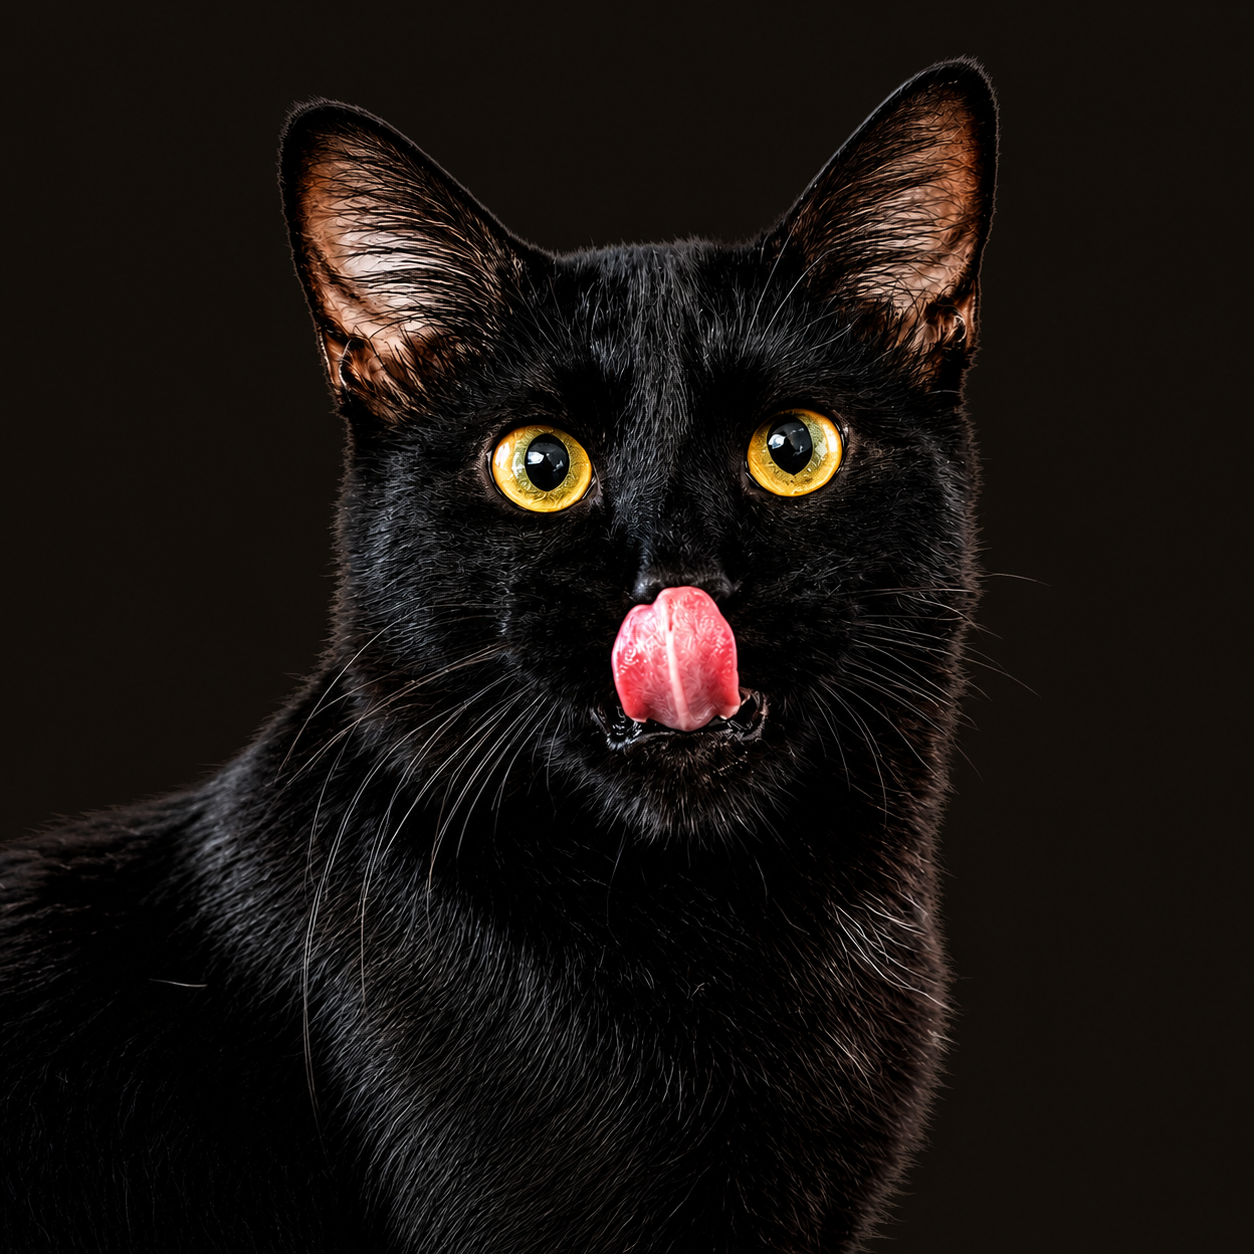
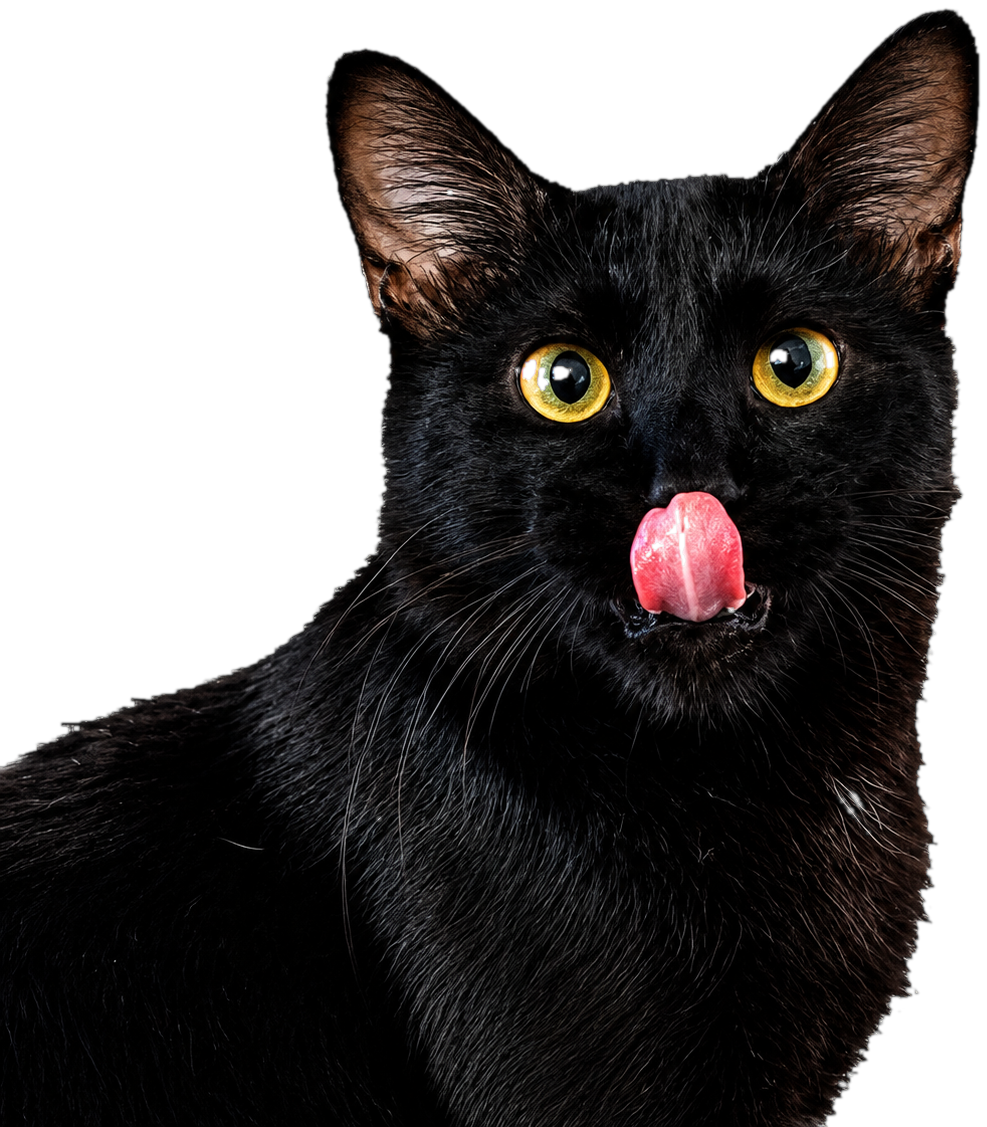
update bubblespeech

diff --git a/imperial-kitchen.html b/imperial-kitchen.html
@@ -721,7 +721,7 @@ footer { border-top: 1px solid rgba(244,237,224,0.12); padding: 2.5rem 2rem; tex
   <div class="speech-wrap">
     <img class="speech-cat" src="heizhu-speech.png" alt="黑珠仔">
     <div class="speech-bubble">
-      <div class="speech-bubble-title" data-zh="😄 悄悄说一句" data-tw="😄 悄悄說一句" data-en="😄 A Little Secret" data-ja="😄 ちょっとした秘密">😄 悄悄说一句</div>
+      <div class="speech-bubble-title" data-zh="🐾 黑猪仔说" data-tw="🐾 黑豬仔說" data-en="🐾 Hei Zhu Zai says" data-ja="🐾 ヘイジューザイが言う">🐾 黑猪仔说</div>
       <div class="speech-bubble-text" data-zh="这款猫粮真的可以给人下饭吃——前提是你不嫌它不够重口味。我们没加盐没加味精，是给猫吃的，不是给你配啤酒的。" data-tw="這款貓糧真的可以給人下飯吃——前提是你不嫌它不夠重口味。我們沒加鹽沒加味精，是給貓吃的，不是給你配啤酒的。" data-en="Honestly, this cat food is good enough for a human meal too — as long as you don't mind it being under-seasoned. No salt, no MSG. Made for cats, not for pairing with beer." data-ja="正直、このごはんは人が食べてもおいしいです——味が薄めでも気にしなければ、ですが。塩もうま味調味料も入れていません。猫のためのごはんで、おつまみ用ではありません。">这款猫粮真的可以给人下饭吃——前提是你不嫌它不够重口味。我们没加盐没加味精，是给猫吃的，不是给你配啤酒的。</div>
     </div>
   </div>
